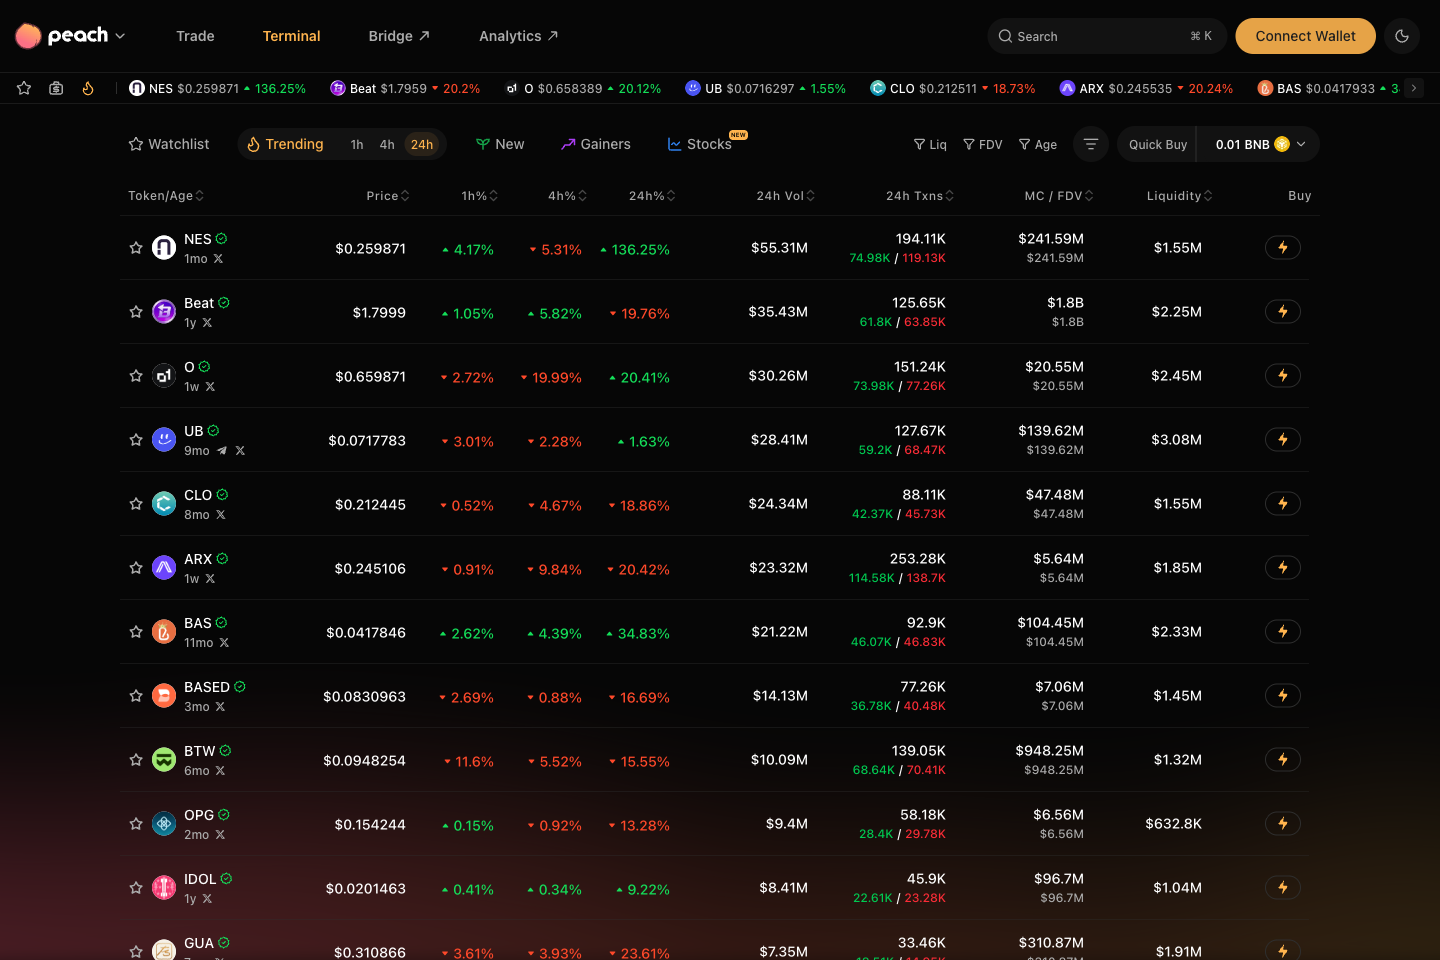
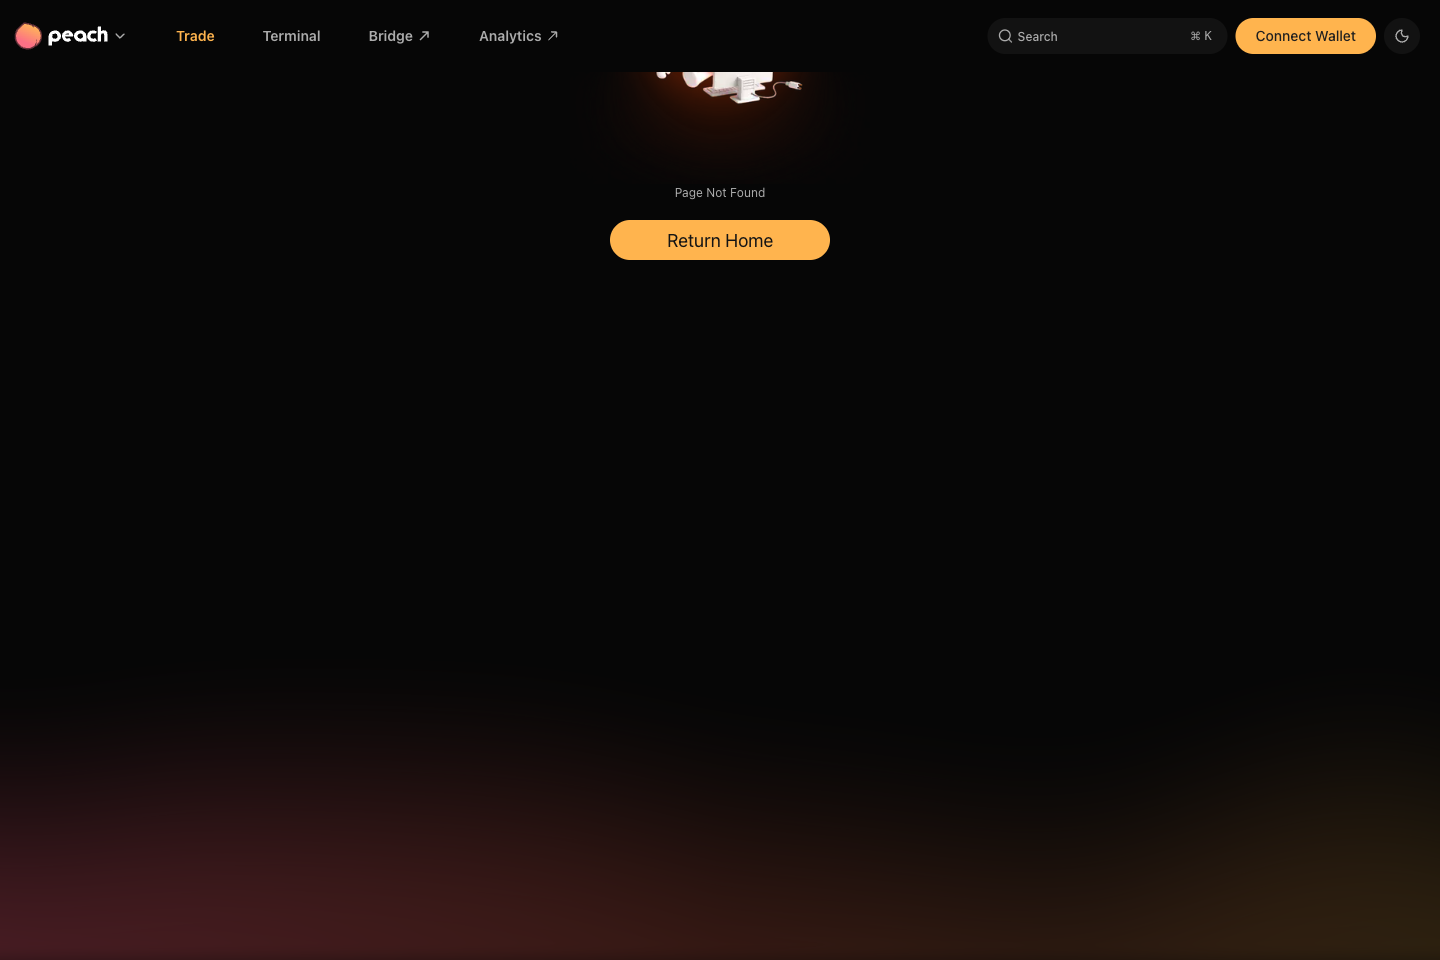
cetus

diff --git a/peach/tests/e2e/terminal-token-swap.spec.ts b/peach/tests/e2e/terminal-token-swap.spec.ts
@@ -50,7 +50,7 @@ const TOKEN_COUNT        = FETCH_ALL_TOKENS ? Infinity : parseInt(TOKEN_COUNT_RA
 const PAY_AMOUNT         = process.env.TERMINAL_PAY_AMOUNT    ?? '0.0001';
 const USD_RATIO          = parseFloat(process.env.USD_RATIO_THRESHOLD ?? '0.5');
 const EXECUTE_SWAP       = process.env.EXECUTE_SWAP === 'true';  // default false（安全默认值）
-const APP_URL            = env.appUrl;                           // https://peach-swap.vercel.app
+const APP_URL            = env.appUrl;                           // https://demo.peach.ag                           
 const TERMINAL_TAG       = process.env.TERMINAL_TAG       ?? 'trending';
 const TERMINAL_DATE_TYPE = process.env.TERMINAL_DATE_TYPE ?? '24h';
 const TERMINAL_API_BASE  = process.env.TERMINAL_API_BASE  ?? 'https://api.cipheron.org';
@@ -177,12 +177,14 @@ test.describe('Peach Terminal – Top Token Swap Validation', () => {
     await metamask.connect(page);
     await terminal.waitForTokenListReady();
 
-    // ── Step 3: 逐个执行 swap ─────────────────────────────────────────────
-    console.log(`\n[Step 3/3] Running swap test for each token...\n`);
+    // ── Step 3: 逐个执行 swap（从最后一个开始，配合降序显示实现从上至下的进度）────────
+    console.log(`\n[Step 3/3] Running swap test for each token (from #${tokensToTest.length} to #1)...\n`);
 
     let routesSelectedOnce = false;
 
-    for (const token of tokensToTest) {
+    // Execute tokens in reverse order (from last to first) for top-to-bottom progress
+    for (let i = tokensToTest.length - 1; i >= 0; i--) {
+      const token = tokensToTest[i];
       const result = await _testTokenSwap(terminal, metamask, token, {
         payAmount: PAY_AMOUNT,
         usdThreshold: USD_RATIO,

diff --git a/peach/src/config/env.ts b/peach/src/config/env.ts
@@ -39,7 +39,7 @@ export const PEACH_ROUTES = [
 export type PeachRoute = typeof PEACH_ROUTES[number];
 
 export const env = {
-  appUrl: get('APP_URL', 'https://peach-swap.vercel.app'),
+  appUrl: get('APP_URL', 'https://demo.peach.ag'),
   headless: get('HEADLESS', 'false') !== 'false',
   playwrightTimeoutMs: parseInt(get('PLAYWRIGHT_TIMEOUT_MS', '60000'), 10),
   actionTimeoutMs: parseInt(get('ACTION_TIMEOUT_MS', '15000'), 10),
